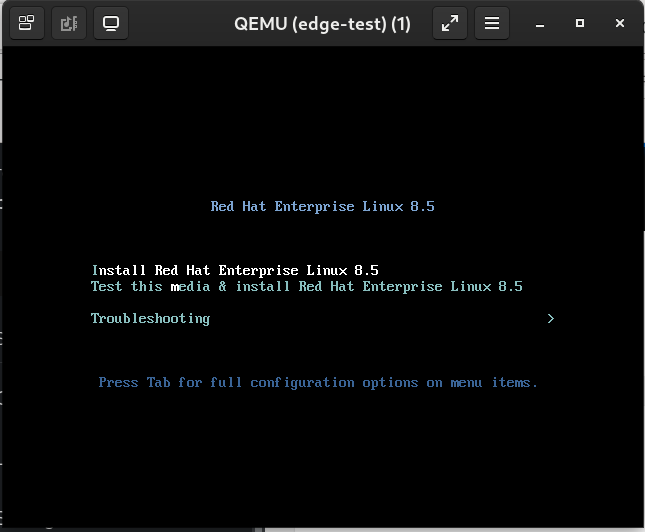
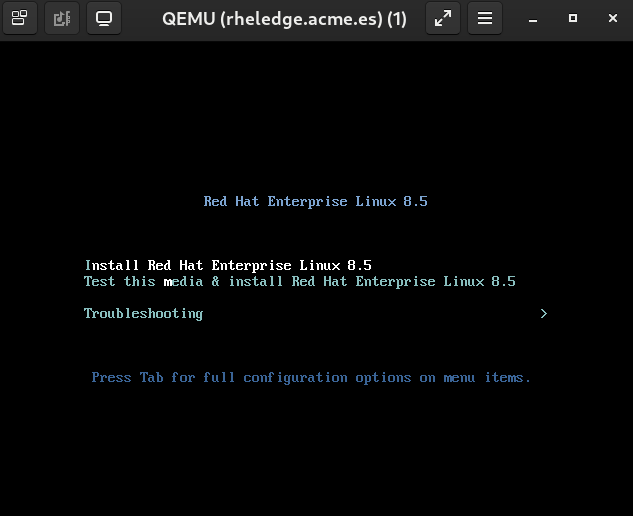
a bit of doc

diff --git a/04-requirements-hypervisor.md b/04-requirements-hypervisor.md
@@ -16,6 +16,14 @@ Follow these stesp:
 * SSH must be running and one user must be configured with passwordless sudo to be used by ansible.
 * Edit the [inventory file](ansible/hosts) and under inventory group **hypervisor** replace **192.168.1.200** by your hypervisor's IP. Configure the **ansible_user** accordingly, as well.
 * The **/tmp** filesystem must have at least twice of RHEL iso size free.
+* Edit the [group_vars/hypervisor.yaml](ansible/group_vars/hypervisor.yaml) file to configure the network for the RHEL for Edge server that will be deployed in the hypervisor using the RHEL for Edge image you have just created:
+  ```yaml
+  rheledge_hostname: 'rheledge.acme.es'
+  rheledge_ip: '192.168.1.134'
+  rheledge_netmask: '255.255.255.0'
+  rheledge_gw: '192.168.1.1'
+  rheledge_dns: '8.8.8.8'
+  ```
 * On your ansible controller node execute:
   ```console
   $ ansible-playbook -i hosts -l hypervisor prerequisites_hypervisor.yaml
@@ -28,3 +36,5 @@ Follow these stesp:
 > ![TIP](icons/tip-icon.png) If we want to speed up the deployment we can connect to the virtual machine console and select the **Install Red Hat Enterprise Linux 8.5**. If not before deploying the server the iso will be checked and this will take more time.
 >
 > ![BOOT](imgs/rheledgeboot.png)
+
+Once the deployment has finished you can use ssh to connect to the RHEL for Edge server using the ip you configured and the user **core** with password **edge**.
